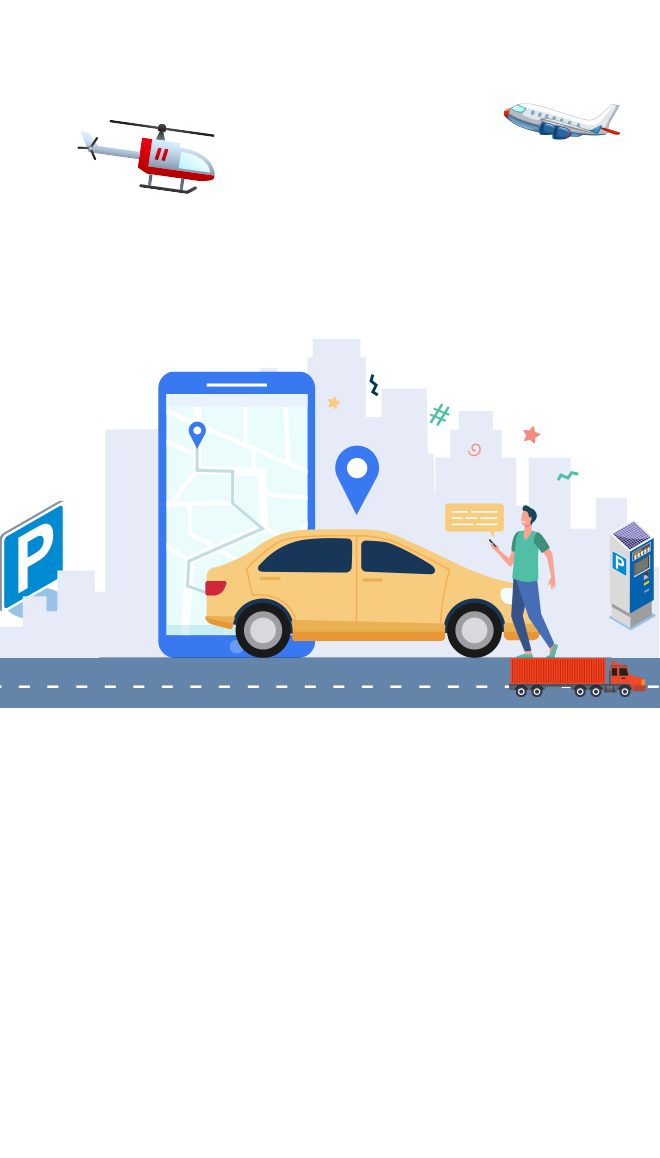
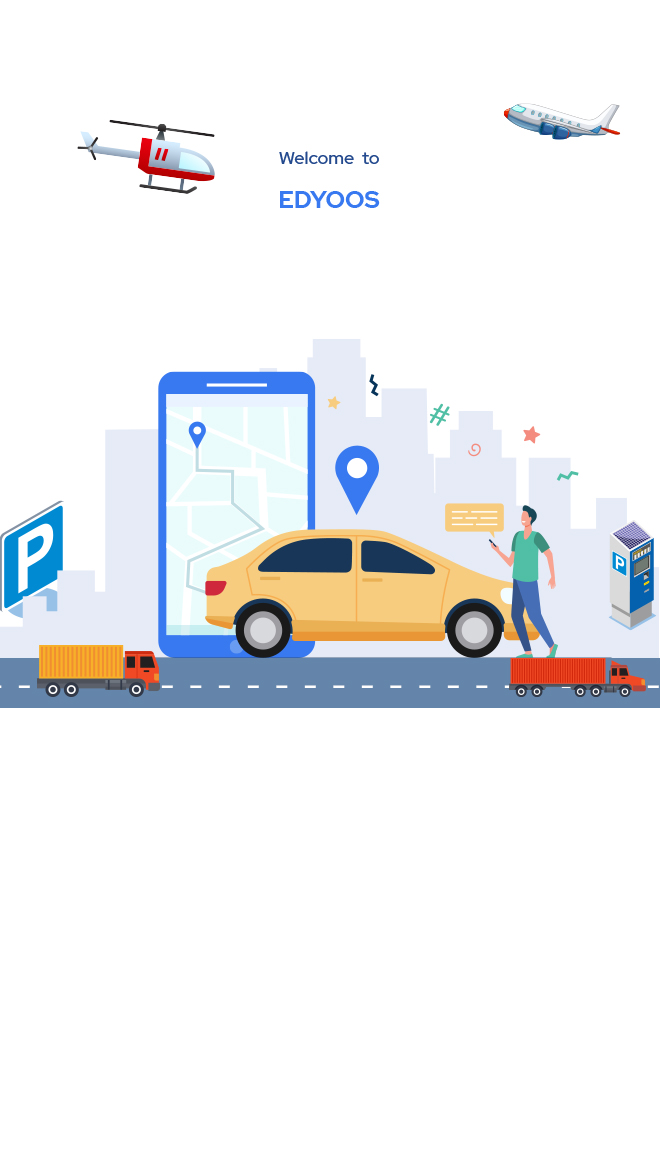
navigation logout welcome page

Changed region(s): [[0.0606, 0.5596, 0.2424, 0.6218], [0.4242, 0.1244, 0.5758, 0.1865]]

diff --git a/src/app/app.component.ts b/src/app/app.component.ts
@@ -3,6 +3,8 @@ import { ActivatedRoute, Router } from '@angular/router';
 import { MenuController, Platform } from '@ionic/angular';
 import { SplashScreen } from '@ionic-native/splash-screen/ngx';
 import { StatusBar } from '@ionic-native/status-bar/ngx';
+import {NavController} from '@ionic/angular';
+
 
 @Component({
   selector: 'app-root',
@@ -13,6 +15,7 @@ export class AppComponent {
   loggedIn = false;
   dark = false;
   //rootPage:any = "";
+   userdetails;
 
   constructor(
     private menu: MenuController,
@@ -20,34 +23,25 @@ export class AppComponent {
     private splashScreen: SplashScreen,
     private statusBar: StatusBar,
     private router: Router,
+    private navController: NavController,
   ) {
-
+     this.userdetails = JSON.parse(localStorage.getItem('edyoosUserDetails'));
+    console.log("userid", this.userdetails);
     this.initializeApp();
-    this.loggedinuser();
-  }
-
-  loggedinuser(){
-    if(JSON.parse(localStorage.getItem('edyoosUserDetails'))){
-    // let userdetails = JSON.parse(localStorage.getItem('edyoosUserDetails'));
-    // let userid = userdetails.id;
-    // if(userid){
-    //   console.log("I am inside if of logged in appcomponent.ts!!!")
-      this.loggedIn=true;
-      this.router.navigate(['/'])
-     }
-    else {
+    if(this.userdetails == null ){
       console.log("I am inside else of logged in appcomponent.ts!!!")
       this.loggedIn=false;
-      //this.rootPage = 'WelcomePage';
-      this.router.navigate(['/welcome'])
+      this.router.navigate(['welcome']);
+      
+     }
+    else {
+      console.log("I am inside if of logged in appcomponent.ts!!!")
+      this.loggedIn=true;
+      this.router.navigate(['']);
+     
     }
   }
 
-  logout(){
-    // console.log("button cliked for logout")
-    // localStorage.clear();
-    // this.router.navigate(['/'] );
-  }
 
   ionViewWillEnter() {
     this.menu.enable(false);
@@ -60,12 +54,13 @@ export class AppComponent {
 
   initializeApp() {
     this.platform.ready().then(() => {
+      
       this.statusBar.styleDefault();
       this.splashScreen.hide();
       setTimeout(()=>{
         document.getElementById("custom-overlay").style.display = "none";
       },4000)
-      this.router.navigate(['/']);
+      // this.router.navigate(['/']);
     });
   }
 

diff --git a/src/app/tab1/tab1.page.ts b/src/app/tab1/tab1.page.ts
@@ -4,6 +4,7 @@ import { Geolocation } from '@ionic-native/geolocation/ngx';
 import { NativeGeocoder, NativeGeocoderResult, NativeGeocoderOptions } from '@ionic-native/native-geocoder/ngx';
 import { ActivatedRoute, Router } from '@angular/router';
 import { AlertController  } from '@ionic/angular';
+import {MatSelectModule} from '@angular/material/select';
 
 
 declare var google;
@@ -65,6 +66,8 @@ export class Tab1Page implements OnInit, AfterViewInit {
     timeout: 5000,
     maximumAge: 0
   };
+
+  userdetails : any ;
   
   modes = [ 'city' , 'airplane' , 'Truck & Trailer Parking' ,'boats', 'Semi-Truck Parking' ] ;
 imageurls = ['assets/images/BlueColor-jpg/CityParking@1x.jpg','assets/images/BlueColor-jpg/Airport@1x.jpg','assets/images/BlueColor-jpg/Truck@1x.jpg','assets/images/BlueColor-jpg/Boat@1x.jpg','assets/images/BlueColor-jpg/SemiTruck@1x.jpg',]
@@ -83,7 +86,16 @@ imageurls = ['assets/images/BlueColor-jpg/CityParking@1x.jpg','assets/images/Blu
     public toastCtrl: ToastController,
     private alertCtrl: AlertController
   ) {
-    console.log("modes and image urls", this.modes, this.imageurls);
+    this.userdetails = JSON.parse(localStorage.getItem('edyoosUserDetails'));
+    console.log("userid", this.userdetails);
+    // let userid= this.userdetails.id
+    if(this.userdetails == null ){
+      this.router.navigate(['welcome']);
+     }
+    else {
+      console.log("i am else from tab2page ");
+     
+    }
 
     this.GoogleAutocomplete = new google.maps.places.AutocompleteService();
     this.autocomplete = { input: '' };

diff --git a/src/app/app.module.ts b/src/app/app.module.ts
@@ -1,6 +1,6 @@
 import { NgModule,CUSTOM_ELEMENTS_SCHEMA } from '@angular/core';
 import { BrowserModule } from '@angular/platform-browser';
-import { RouteReuseStrategy } from '@angular/router';
+import { RouterModule, Routes, RouteReuseStrategy } from '@angular/router';
 
 import { IonicModule, IonicRouteStrategy } from '@ionic/angular';
 import { SplashScreen } from '@ionic-native/splash-screen/ngx';
@@ -27,6 +27,7 @@ import { Base64 } from '@ionic-native/base64/ngx';
 import {Stripe} from '@ionic-native/stripe/ngx';
 import { MatButtonModule } from '@angular/material/button';
 import { MatCheckboxModule } from '@angular/material/checkbox';
+
 
 
 @NgModule({

diff --git a/src/app/login/login.page.ts b/src/app/login/login.page.ts
@@ -172,7 +172,9 @@ onSubmit(): void {
                 if (!this.authenticationService.isAuthorized()) { 
                     this.authenticationService.setUserValue(response.data);
                     localStorage.setItem('userData', userData);
-                    this.router.navigate(['profile'],userData);
+                    console.log("i am going to profile");
+                    this.router.navigate([''],userData);
+                    // this.router.navigate(['home']);
 
                     // let cart: Cart[] = [];
                     // if (this.placesService.cartPropertyGroup.length > 0) {

diff --git a/src/app/tab1/tab1.page.html b/src/app/tab1/tab1.page.html
@@ -63,7 +63,14 @@
       </ion-row>
     </ion-grid>
 </ion-toolbar>
-
+<mat-form-field>
+  <mat-select>
+    <mat-option>None</mat-option>
+    <mat-option>Option 1</mat-option>
+    <mat-option>Option 2</mat-option>
+    <mat-option>Option 3</mat-option>
+  </mat-select>
+</mat-form-field>
   <ion-fab vertical="bottom" horizontal="start" slot="fixed">
     <ion-fab-button style="margin-top: -55px; position: absolute; padding-right: 11px;" (click)="ShowCords()" ion-fab color="tertiary">
       <ion-icon name="information-circle-outline"></ion-icon>

diff --git a/src/app/welcome/welcome.page.html b/src/app/welcome/welcome.page.html
@@ -1,9 +1,9 @@
 
 <ion-content>
 
-  <div style="color:gray; font-size: small; position:fixed; margin-top: 24px; margin-left: 147px;">Welcome to</div>
-  <br><br>
-  <div style="color:#3880ff; text-align:center; position:fixed;">EDYOOS</div>
+  <!-- <div style="color:gray; font-size: small; position:fixed; margin-top: 24px; margin-left: 147px;">Welcome to</div> -->
+  <!-- <br><br>
+  <div style="color:#3880ff; text-align:center; position:fixed;">EDYOOS</div> -->
 
   <img src="assets/images/welcome-page.jpg" style="position:fixed;"/>
   

diff --git a/src/app/app-routing.module.ts b/src/app/app-routing.module.ts
@@ -9,10 +9,12 @@ const routes: Routes = [
     path: 'welcome',
     loadChildren: () => import('./welcome/welcome.module').then( m => m.WelcomePageModule)
   },
+  
   {
     path: '',
     loadChildren: () => import('./tabs/tabs.module').then(m => m.TabsPageModule)
   },
+  
   {
     path: 'login',
     loadChildren: () => import('./login/login.module').then( m => m.LoginPageModule)

diff --git a/src/global.scss b/src/global.scss
@@ -8,7 +8,7 @@
  * For more information on global stylesheets, visit the documentation:
  * https://ionicframework.com/docs/layout/global-stylesheets
  */
-
+ @import "~@angular/material/prebuilt-themes/indigo-pink.css";
 /* Core CSS required for Ionic components to work properly */
 @import "~@ionic/angular/css/core.css";
 

diff --git a/src/app/tab1/tab1.page.spec.ts b/src/app/tab1/tab1.page.spec.ts
@@ -1,7 +1,6 @@
 import { async, ComponentFixture, TestBed } from '@angular/core/testing';
 import { IonicModule } from '@ionic/angular';
 import { ExploreContainerComponentModule } from '../explore-container/explore-container.module';
-
 import { Tab1Page } from './tab1.page';
 
 describe('Tab1Page', () => {

diff --git a/src/app/profile/profile.page.ts b/src/app/profile/profile.page.ts
@@ -37,7 +37,10 @@ ngOnInit(): void{
     this.authenticationService.logout();
     console.log("button cliked for logout")
     localStorage.clear();
-    this.router.navigate(['/'] );
+    this.router.navigate(['welcome'] );
+  }
+  home(){
+    this.router.navigate(['home']);
   }
 
   goto_editprofile(){
